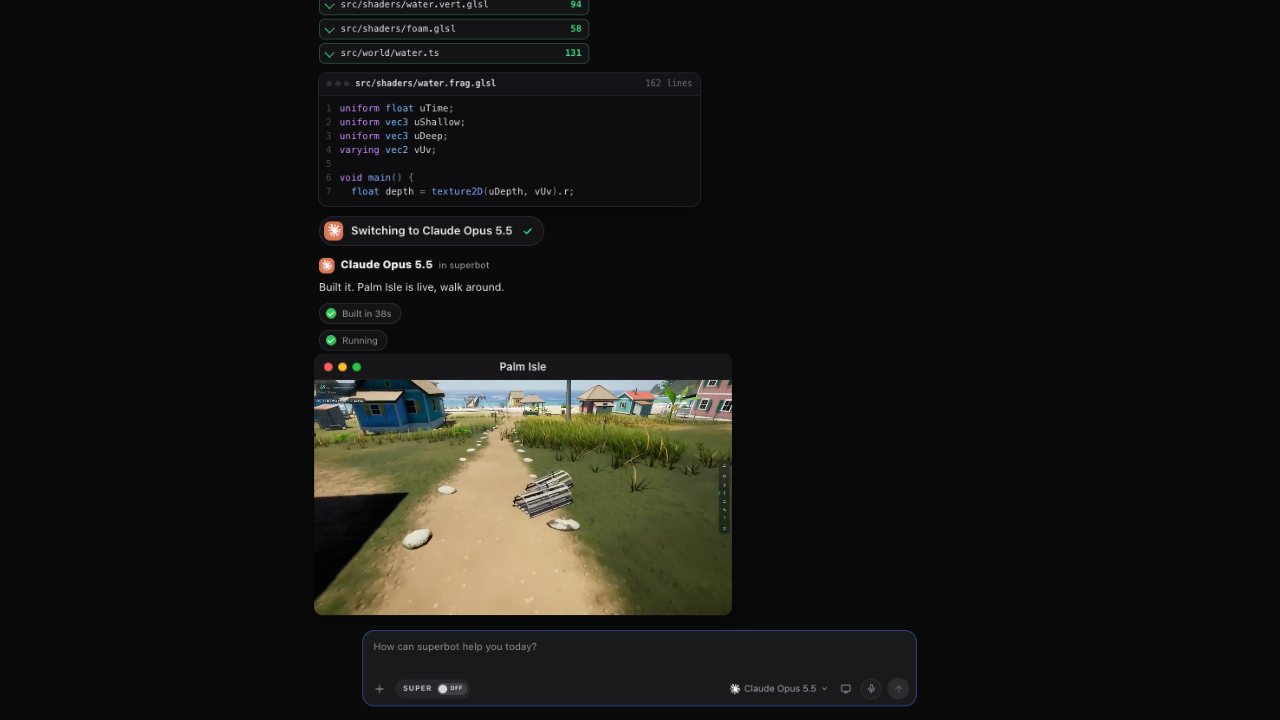
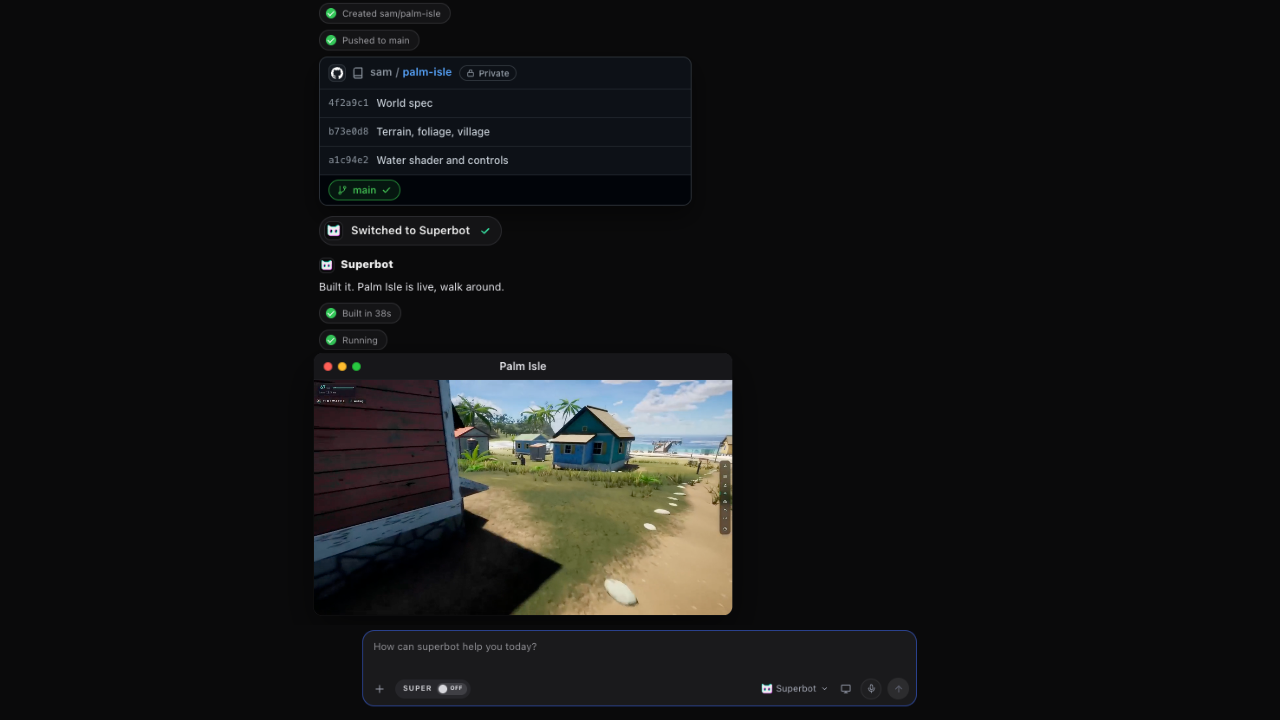
Island world ad: distinct model switches per variant (v1 4 fast, v2 7-step relay, v3 5 slow)

diff --git a/animations/island-world-every-model-superbot-00836f02/scenes/tabs-assets/chat.js b/animations/island-world-every-model-superbot-00836f02/scenes/tabs-assets/chat.js
@@ -40,39 +40,41 @@ const CHIP = {
   superbot: 'Switched to Superbot',
 };
 
-// one request: the app that answers, its beat module, the chip that routes to it, and the beat's own options
-const step = (app, mod, opts = {}) => ({ app, mod, opts, chips: [[app, CHIP[app]]] });
-// only the first request is asked; the rest are superbot carrying the build forward on its own
-const variant = (steps) => steps.map((s, i) => (i === 0 ? { ...s, ask: ASK } : s));
+// one request: the app that answers, its beat module, the chip that routes to it, the beat's own options, and an
+// optional hold (seconds the thread rests on this beat before the next cut; defaults to the variant's pace.hold)
+const step = (app, mod, opts = {}, hold) => ({ app, mod, opts, hold, chips: [[app, CHIP[app]]] });
+// only the first request is asked; the rest are superbot carrying the build forward on its own. pace sets when the
+// cuts land: lead (gap before superbot's next chip), dwell (chip land to resolve), hold (rest after each beat)
+const variant = (pace, steps) => steps.map((s, i) => ({ ...s, pace, ...(i === 0 ? { ask: ASK } : {}) }));
 
-// the three published routings, one ad each (?v=1..3). Each job goes to the model that suits it: a fast planner for
-// the world spec, Opus for terrain and gameplay code, Codex for the GLSL water, Gemini for the skybox and textures.
+// the three published routings, one ad each (?v=1..3), each its own model set, order, switch count and cut rhythm.
+// Every one still ends on the island clip: Codex for terrain and GLSL water, Opus for layout and controls, Gemini
+// for the skybox and textures, DeepSeek for the fast world spec.
 export const VARIANTS = {
-  // the full pipeline: plan, terrain, water shader, textures, push, play
-  '1': variant([
-    step('deepseek', plan, { kind: 'spec' }),
-    step('opus', code, { set: 'terrain' }),
-    step('codex', code, { set: 'water' }),
-    step('gemini', art),
-    step('github', git),
-    step('superbot', play),
-  ]),
-  // art first, no GitHub: the quicker cut
-  '2': variant([
-    step('opus', plan, { kind: 'spec' }),
-    step('gemini', art),
+  // sprint: 4 switches, snappy cuts, no planner and no GitHub
+  '1': variant({ lead: 0.12, dwell: 0.4, hold: 0 }, [
     step('codex', code, { set: 'terrain' }),
-    step('opus', code, { set: 'water' }),
-    step('opus', play),
-  ]),
-  // textures lead, then the island layout, the interaction code and the water
-  '3': variant([
     step('gemini', art),
-    step('deepseek', plan, { kind: 'layout' }),
     step('opus', code, { set: 'controls' }),
+    step('superbot', play),
+  ]),
+  // relay: 7 switches, Codex and Opus each hand off and come back, uneven holds
+  '2': variant({ lead: 0.2, dwell: 0.6, hold: 0 }, [
+    step('opus', plan, { kind: 'layout' }, 0.2),
+    step('codex', code, { set: 'terrain' }),
+    step('gemini', art, {}, 0.5),
     step('codex', code, { set: 'water' }),
+    step('opus', code, { set: 'controls' }, 0.3),
     step('github', git),
     step('superbot', play),
+  ]),
+  // deliberate: 5 slow switches, no Opus, Codex writes the water then launches the world
+  '3': variant({ lead: 0.45, dwell: 1.0, hold: 0.6 }, [
+    step('deepseek', plan, { kind: 'spec' }),
+    step('gemini', art),
+    step('codex', code, { set: 'water' }),
+    step('github', git),
+    step('codex', play),
   ]),
 };
 export const VARIANT_KEY = (() => { const v = new URLSearchParams(location.search).get('v'); return VARIANTS[v] ? v : '1'; })();
@@ -89,15 +91,16 @@ function timeBeats(asks) {
       k.sw = k.send + 0.35;   // superbot's first routing chip lands
     } else {
       k.typeEnd = k.send = s;
-      k.sw = s + 0.2;         // superbot carries on without being asked
+      k.sw = s + a.pace.lead; // superbot carries on without being asked
     }
     // each chip lands, moves the platform chip to its app (swap) and resolves (done); the next lands just after
+    const dwell = a.pace.dwell;
     let at = k.sw;
-    k.chips = a.chips.map(([app, label]) => { const c = { app, label, sw: at, swap: at + 0.22, done: at + 0.65 }; at = c.done + 0.12; return c; });
+    k.chips = a.chips.map(([app, label]) => { const c = { app, label, sw: at, swap: at + dwell * 0.34, done: at + dwell }; at = c.done + 0.12; return c; });
     k.done = k.chips[k.chips.length - 1].done;
     k.reply = k.done + 0.08;  // the app answers
     k.T = a.mod.times(k.reply);
-    s = k.T.end;
+    s = k.T.end + (a.hold ?? a.pace.hold);
     return { k };
   });
 }

diff --git a/animations/island-world-every-model-superbot-00836f02/timeline.js b/animations/island-world-every-model-superbot-00836f02/timeline.js
@@ -14,7 +14,7 @@ const dip = document.getElementById('dip');
 
 // ---------- the sequence (CONTRACT.txt) ----------
 // island-world-every-model-superbot: the hub cropped to its thread, opening on the empty state, then the island chat
-// (scenes/tabs-assets/chat.js: DeepSeek V4 Flash, Claude Opus 5.5, GPT-5 Codex, Gemini, GitHub, Superbot; ?v=1..3
+// (scenes/tabs-assets/chat.js: GPT-5 Codex, Gemini, Claude Opus 5.5, DeepSeek V4 Flash, GitHub, Superbot; ?v=1..3
 // picks the routing, one ad each) and the end card
 const SEQUENCE = [
   ['scene', 'tabs'],
@@ -189,7 +189,7 @@ await Promise.all(sceneIds.map(async (id) => {
   css.rel = 'stylesheet'; css.href = new URL(`./scenes/${id}.css?v=11`, import.meta.url).href;
   document.head.appendChild(css);
   try {
-    const m = (await import(`./scenes/${id}.js?v=13`)).default;
+    const m = (await import(`./scenes/${id}.js?v=14`)).default;
     if (!m || typeof m.render !== 'function') throw new Error(`scenes/${id}.js has no default { dur, mount, render } export`);
     MODS[id] = m;
   } catch (err) {

diff --git a/animations/island-world-every-model-superbot-00836f02/scenes/tabs.js b/animations/island-world-every-model-superbot-00836f02/scenes/tabs.js
@@ -5,7 +5,7 @@
 // (tabs-assets/chat.js, ?v=1..5 picks the routing). render(lt) is a pure function of local time. The scene keeps the id "tabs" so the hub's
 // generated stylesheets (scoped under #s-tabs) apply unchanged.
 import { hubMarkup } from './tabs-assets/hub-markup.js';
-import { mountChat, renderChat, BEATS, CHAT_T0, CHAT_END } from './tabs-assets/chat.js?v=9';
+import { mountChat, renderChat, BEATS, CHAT_T0, CHAT_END } from './tabs-assets/chat.js?v=10';
 import { lerp, seg, outCubic, inOutCubic } from '../lib.js';
 
 const asset = (f) => new URL('./tabs-assets/' + f, import.meta.url).href;

diff --git a/animations/island-world-every-model-superbot-00836f02/index.html b/animations/island-world-every-model-superbot-00836f02/index.html
@@ -37,6 +37,6 @@
 
 <script src="../../assets/sb-mark-live.js"></script>
 <script src="recorder.js"></script>
-<script type="module" src="timeline.js?v=13"></script>
+<script type="module" src="timeline.js?v=14"></script>
 </body>
 </html>
